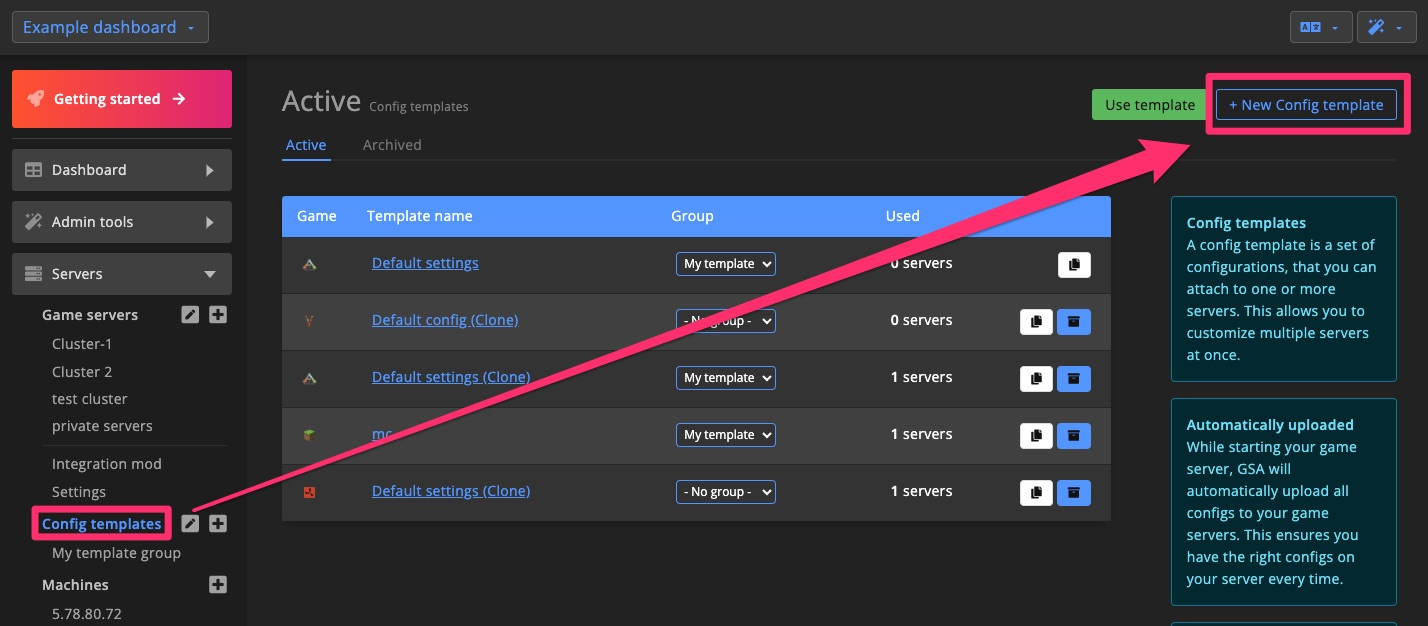
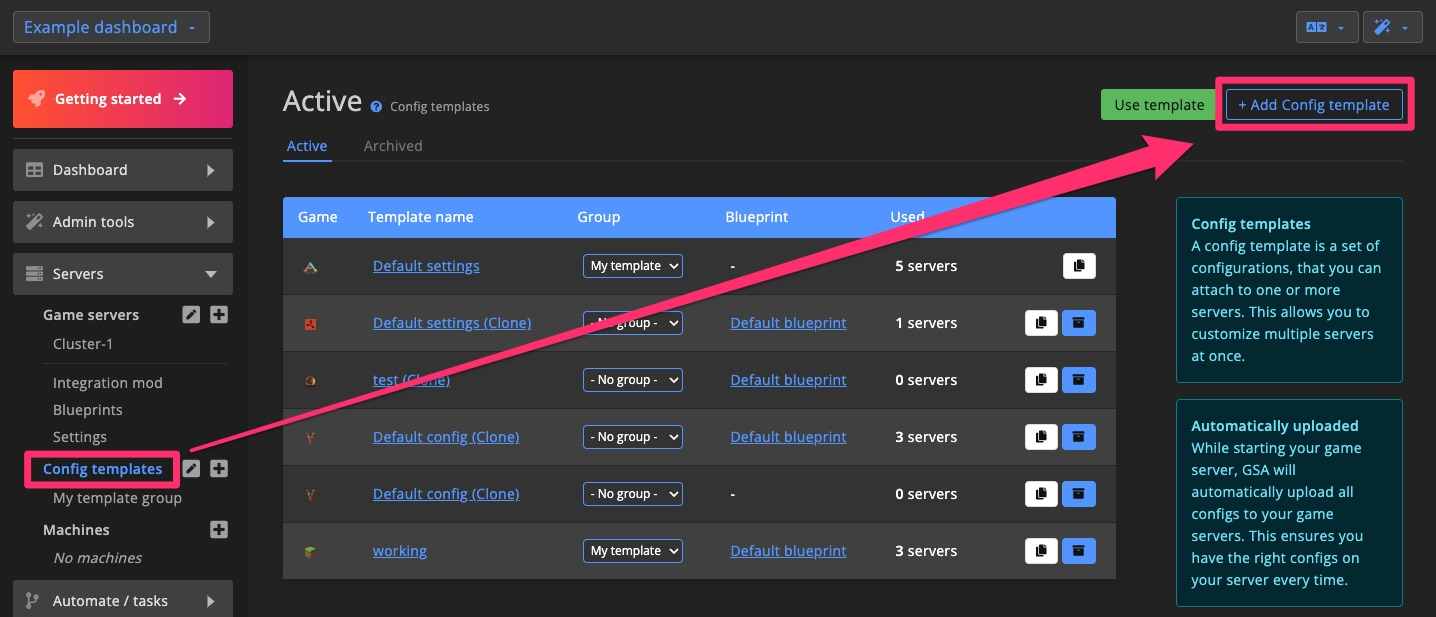
blueprints @ config templates

diff --git a/Documentation/docs/dashboard/game_servers/config_templates.md b/Documentation/docs/dashboard/game_servers/config_templates.md
@@ -15,7 +15,10 @@ To create a new config template that is empty click `+ Add Config template` on t
 
 ![Config template - create new 1](/img/dashboard/gameserver/config_template/config_template_create_new_1.jpg)
 
-Enter a `name` and select which `game` the config template is for. Click `Create` to create a new Config template.
+Enter a `name` and select which `game` the config template is for.\
+Optionally can you change the blueprint. When unsure, it's best to go with the `Default blueprint`.
+
+Click `Create` to create a new Config template.
 
 ![Config template - create new 2](/img/dashboard/gameserver/config_template/config_template_create_new_2.jpg)
 
@@ -62,8 +65,7 @@ Advanced-mode shows all relevant files and settings that you may want to change 
 ### Mod / Plugin configs
 
 #### General / Framework configs
-Some frameworks have general settings that determine how the framework functions, like PaperMC. 
-
+Some frameworks have general settings that determine how the framework functions, like PaperMC.\
 For frameworks with general settings you can, in most cases, manage the framework settings from the `Mod / Plugin` tab too.
 
 ![Config template - framework settings](/img/dashboard/gameserver/config_template/framework_settings_papermc.jpg)
@@ -88,11 +90,20 @@ Besides adding the config to your config template is it also possible to install
 ![Config template - add plugin config and install on game server](/img/dashboard/gameserver/config_template/add_config_or_add_and_install.jpg)
 
 
-
 ### Settings
-Change the Config template name, manage Admin ID's, configure automations and more advanced settings.
+Edit the Config template name, change the blueprint, manage Admin ID's, configure automations and more advanced settings.
 
 ![Config template - settings](/img/dashboard/gameserver/config_template/config_template_settings.jpg)
+
+#### Blueprint
+
+With blueprints, you can change which config files are listed on the config template.\
+This is useful for games that aren't officially supported on GameServerApp, but also for existing games that miss certain config files.
+
+##### Change blueprint for Config template
+On the "Change blueprint for Config template" popup you can (optionally) also update the blueprint for all connected game servers. So the Config template and all connected game servers use the same blueprint.
+
+![Config template - settings - blueprint](/img/dashboard/gameserver/config_template/config_template_settings_blueprint.jpg)
 
 #### Access
 
@@ -102,7 +113,7 @@ Change the Config template name, manage Admin ID's, configure automations and mo
 Grant admin privileges to all ID's listed in the field. This automatically deploys to all connected game servers.
 
 #### Automation
-The automation settings in a Config template can be used to automate game servers.
+The automation settings in a Config template can be used to automate game servers.\
 See the [Game server automation section](/dashboard/game_servers/getting_started#automation) for more details.
 
 ![Config template - settings - automation](/img/dashboard/gameserver/config_template/config_template_settings_automation.jpg)
